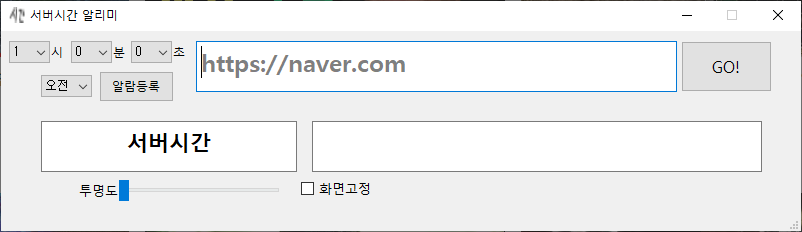
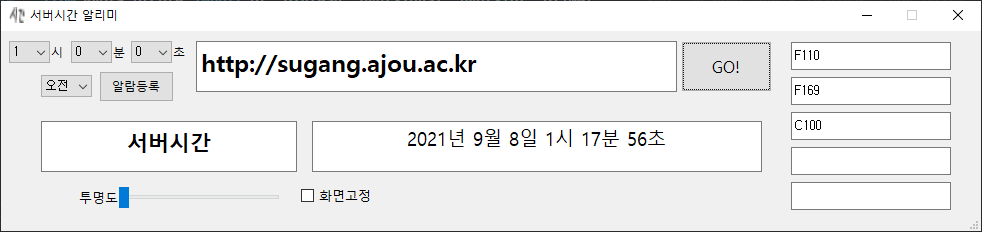
feature: URL auto correction
modify: readme.md

diff --git a/index.py b/index.py
@@ -220,8 +220,13 @@ class Query:
         self.app = App
         self.sync_time(URL)
 
-    def sync_time(self, URL):
+    def sync_time(self, URL: str):
         '''서버와의 시간을 동조'''
+        while URL[len(URL)-1] == '/':
+            URL = URL[:-1]
+
+        if URL[:7] != "http://":
+            URL = "http://" + URL
         req = requests.get(URL+"/fjdksla")
         originSec = req.headers["Date"][23:25]
         self.app.progressBar.setValue(10)

diff --git a/readme.md b/readme.md
@@ -1,2 +1,26 @@
-![img1](img/1.PNG)
-![img1](img/2.PNG)
+# Server Time: 서버 시간 알리미
+
+![original](img/original.png)
+기본 화면
+
+## 1. 기능
+
+### 1.1. 알람
+
+![alarm](img/alarm.png)
+지정된 시간에 알람이 울리게 할 수 있다.
+
+### 1.2. 화면고정
+
+![fix_window](img/fix_window.png)
+서버시간 프로그램 바깥으로 포커스가 벗어나도 창이 사라지지 않는다.
+
+### 1.3. Copy Box 클립보드
+
+![clipboard](img/clipboard.png)
+수강신청 시, 수강코드 입력을 쉽게 하기 위해서 Copy Box를 제작하였다.
+해당 박스를 누르는 순간 자동으로 텍스트가 클립보드에 복사된다.
+
+## 2. 사용 후기
+
+개발자 및 주변인의 수강신청 올클 소식 다수
